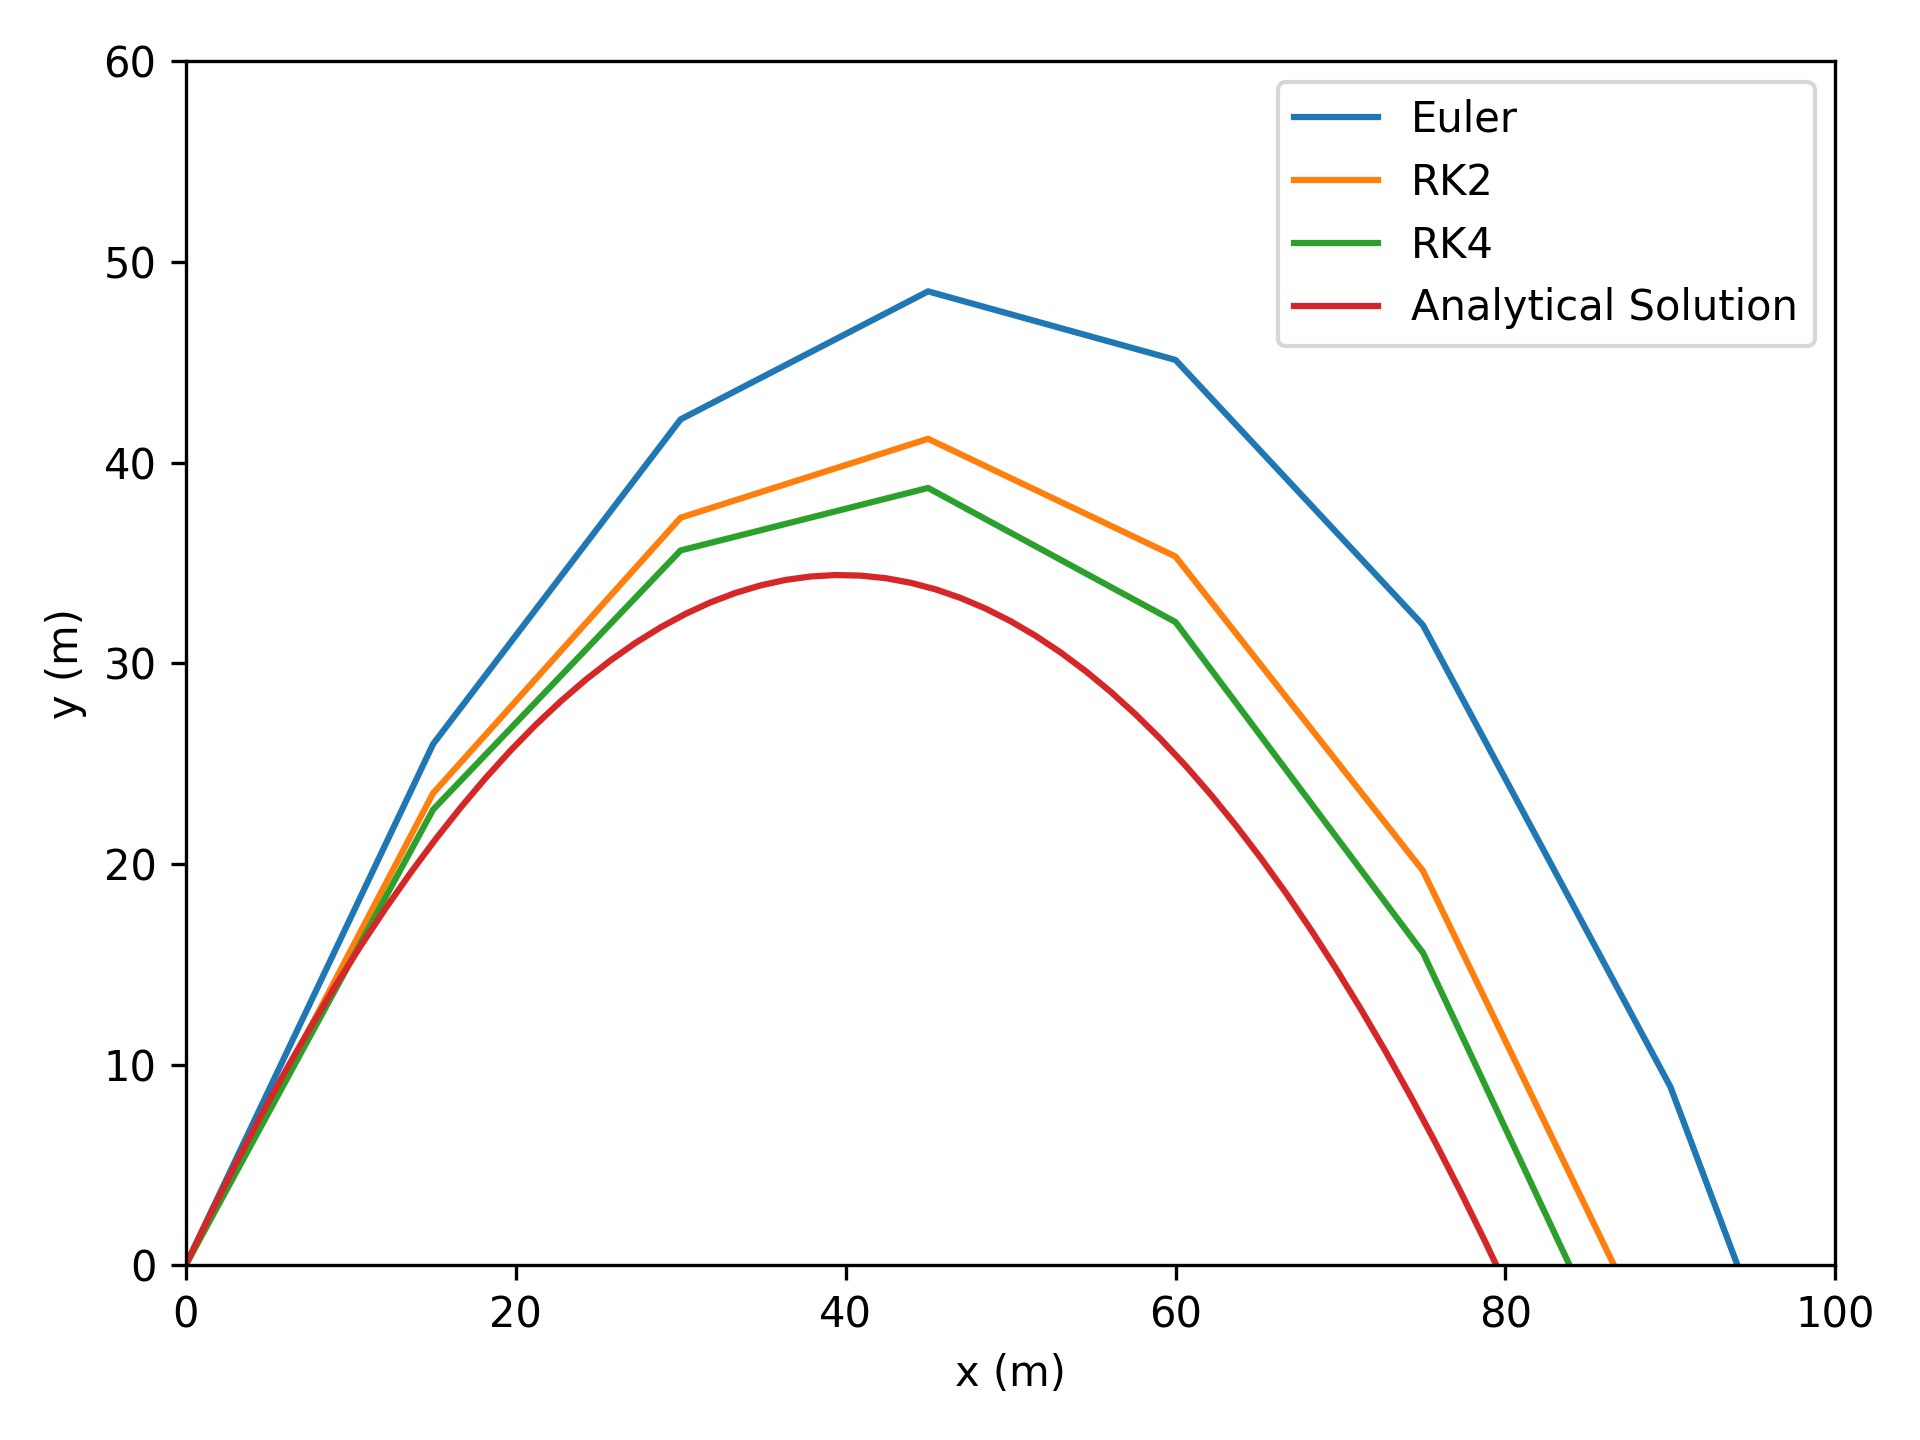
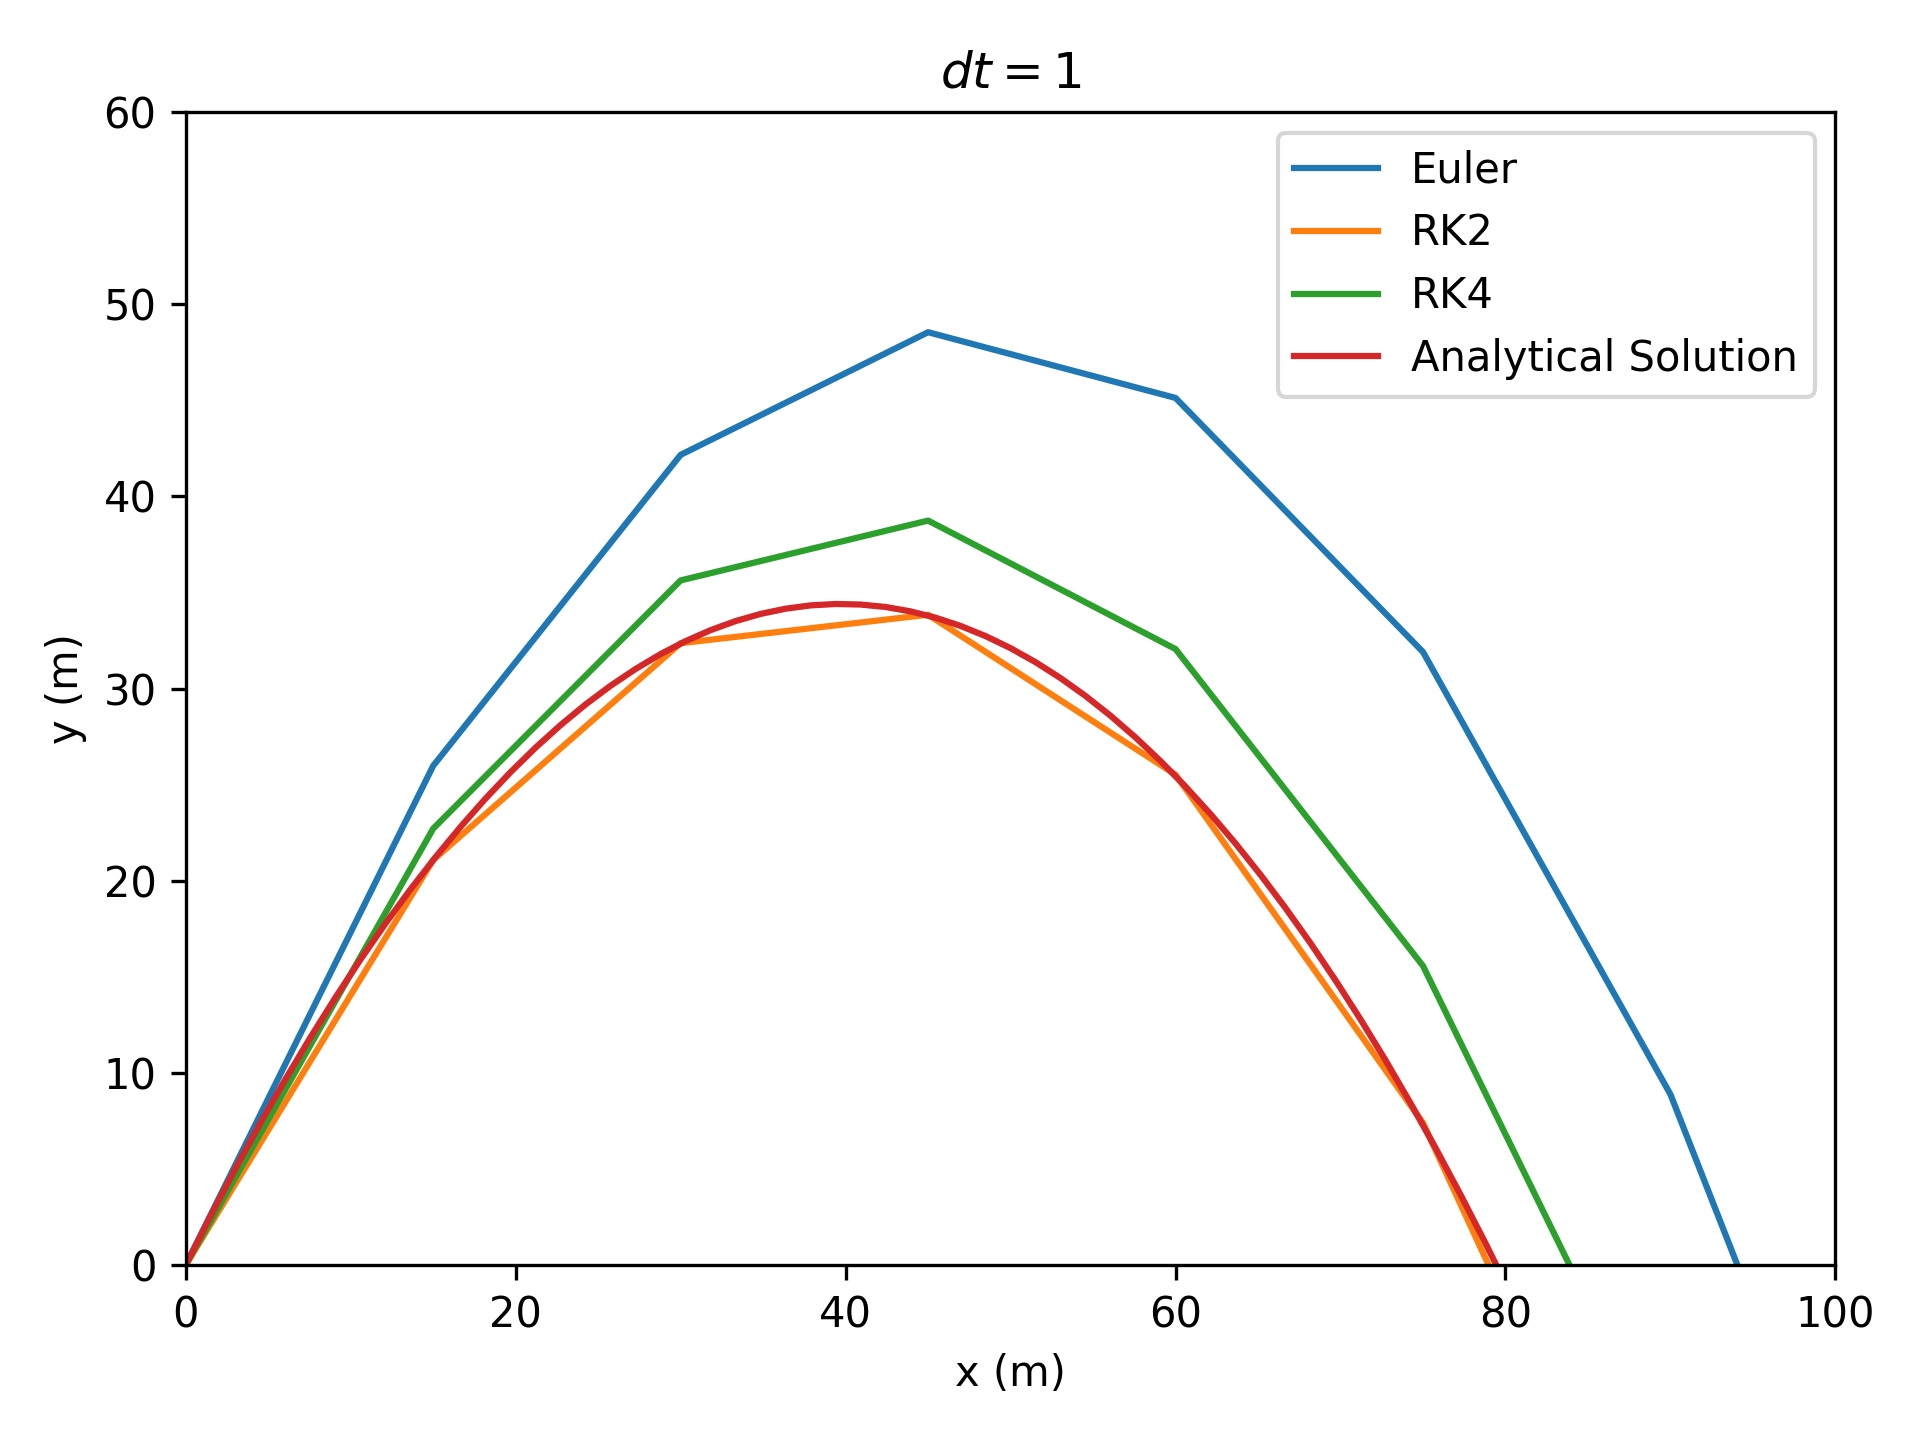
L7exmod

diff --git a/exercises/L7exercise/angry_bird/plot.py b/exercises/L7exercise/angry_bird/plot.py
@@ -21,6 +21,7 @@ plt.xlim([0,100])
 plt.ylim([0,60])
 plt.xlabel('x (m)')
 plt.ylabel('y (m)')
+plt.title('$dt = 1$')
 plt.legend()
 plt.tight_layout()
 
